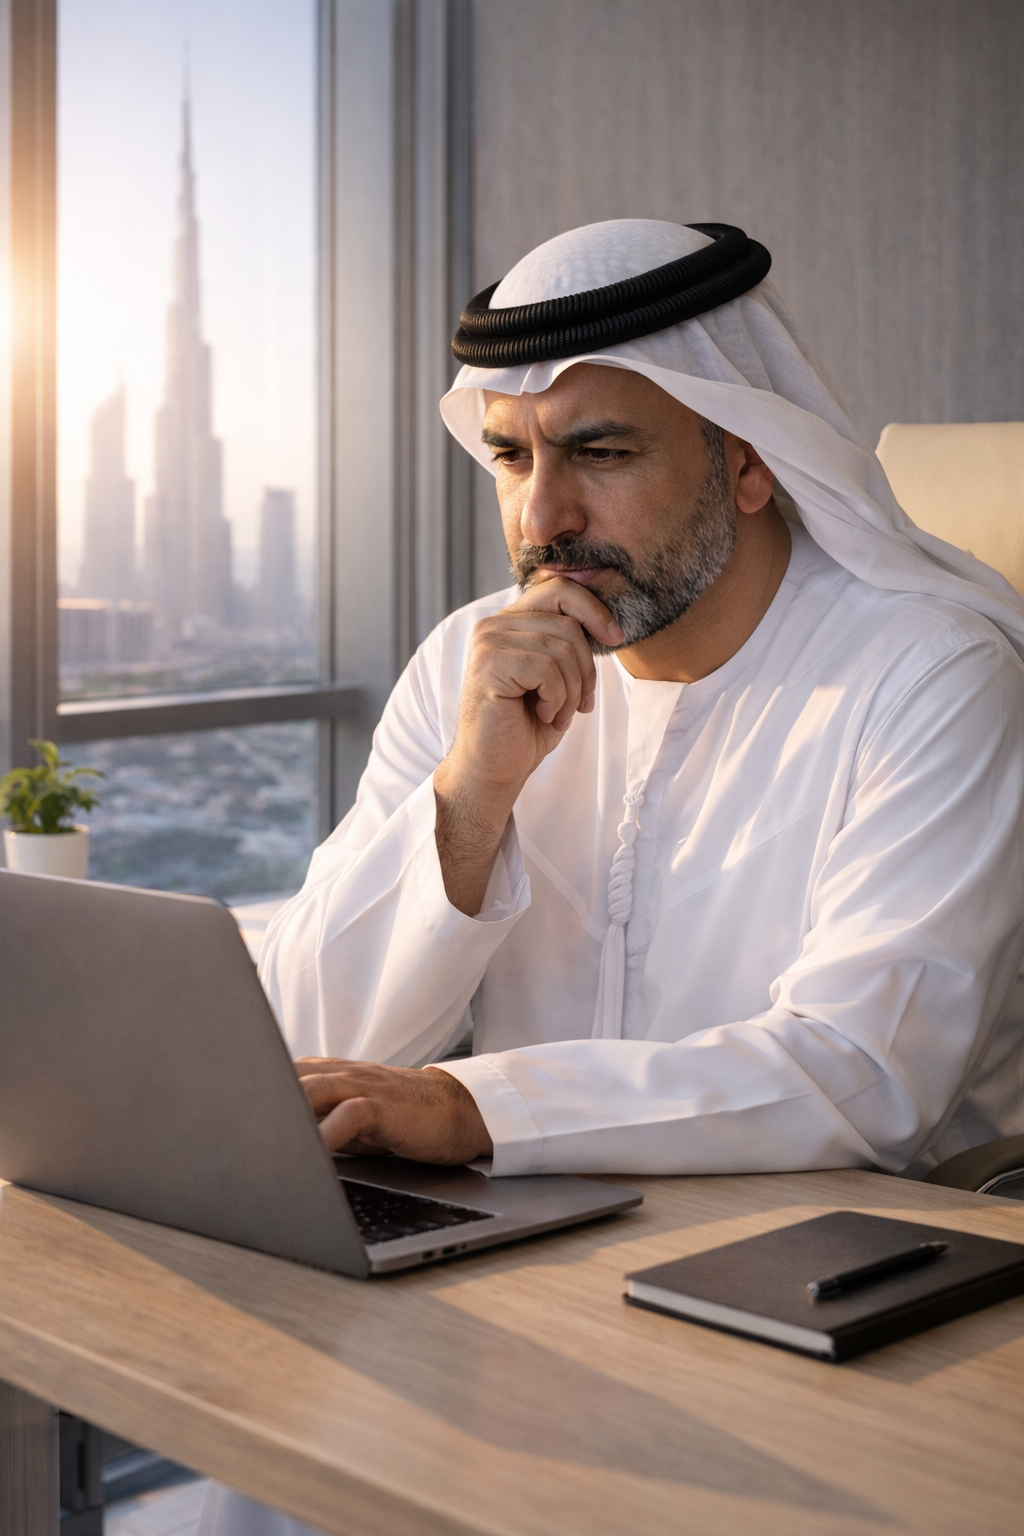
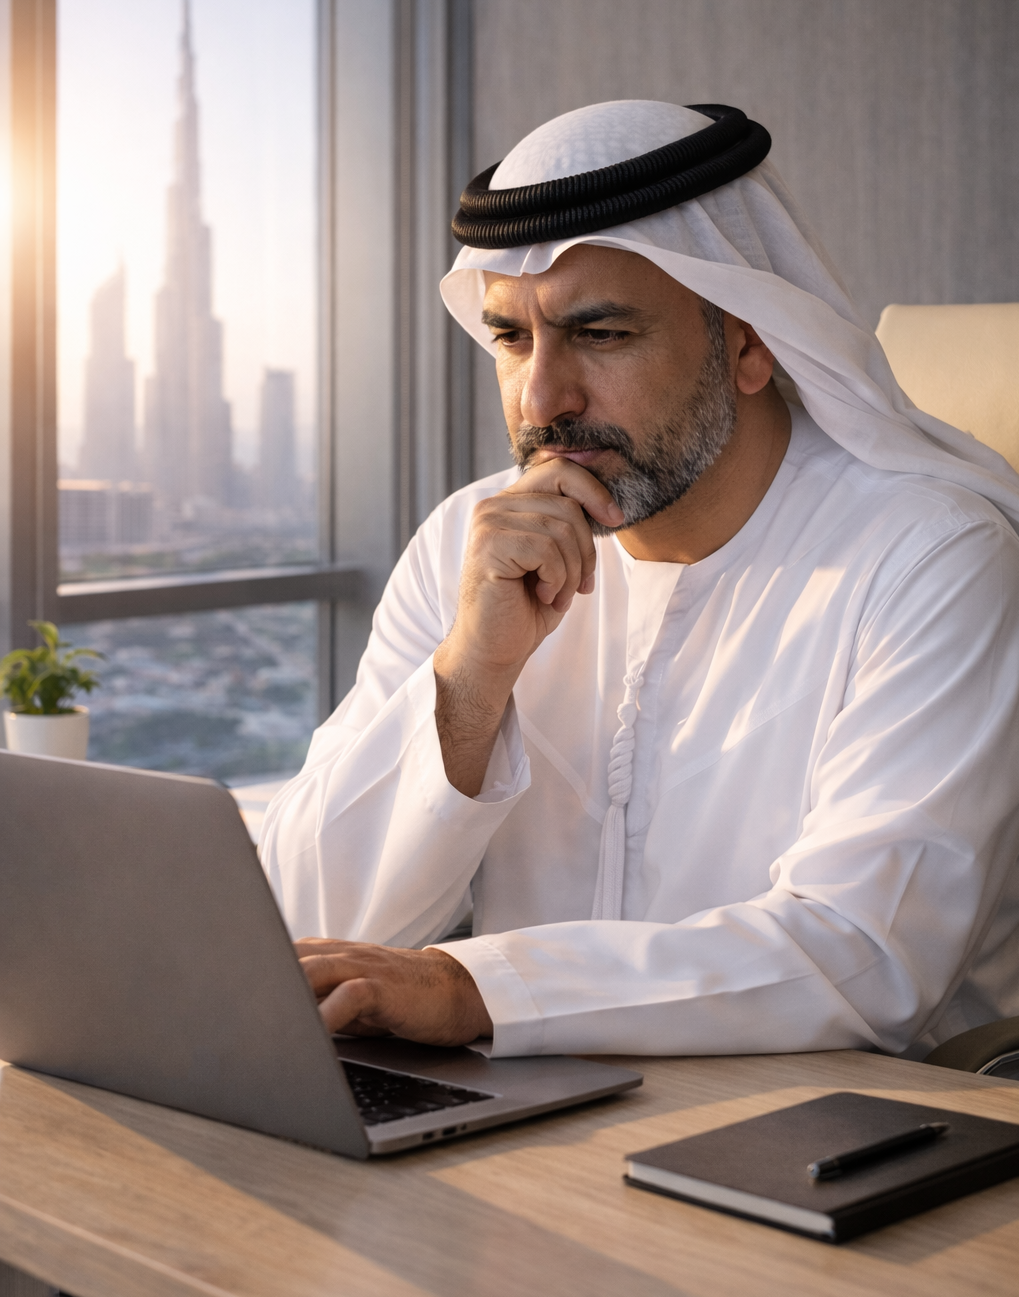
Storytelling 27/02/26

diff --git a/components/story/StoryStep.tsx b/components/story/StoryStep.tsx
@@ -156,26 +156,29 @@ export default function StoryStep({
   if (step.layout === 'screen' && step.mockupId) {
     if (step.id === 'act2-step1') {
       return (
-        <section className="grid w-full animate-fade-in grid-cols-1 items-start md:grid-cols-12">
-          <div className="md:row-start-1 md:col-span-4">
-            <NarrativeBlock step={step} onContinue={onContinue} isLastStep={isLastStep} />
+        <>
+          <div className="absolute top-0 right-0 w-full z-0">
+            <Image
+              src="/images/Tariq-atwork.png"
+              alt="Tariq at work"
+              width={1400}
+              height={900}
+              className="w-auto h-screen"
+            />
           </div>
+          <section className="grid w-full animate-fade-in grid-cols-1 items-start md:grid-cols-12">
+            <div className="md:row-start-1 md:col-span-4 z-20">
+              <NarrativeBlock step={step} onContinue={onContinue} isLastStep={isLastStep} />
+            </div>
 
-          <div className="relative md:row-start-1 md:col-start-7 md:col-span-6">
-            <div className="w-full">
-              <Image
-                src="/images/Tariq-atwork.png"
-                alt="Tariq at work"
-                width={1400}
-                height={900}
-                className="h-auto w-full"
-              />
+            <div className="relative md:row-start-1 md:col-start-7 md:col-span-6">
+
+              <div className="absolute -left-16 top-24 z-30 min-w-160">
+                <ScreenMockup mockupId={step.mockupId} caption={step.mockupCaption} />
+              </div>
             </div>
-            <div className="absolute -left-16 top-24 z-10 min-w-160">
-              <ScreenMockup mockupId={step.mockupId} caption={step.mockupCaption} />
-            </div>
-          </div>
-        </section>
+          </section>
+        </>
       )
     }
 
